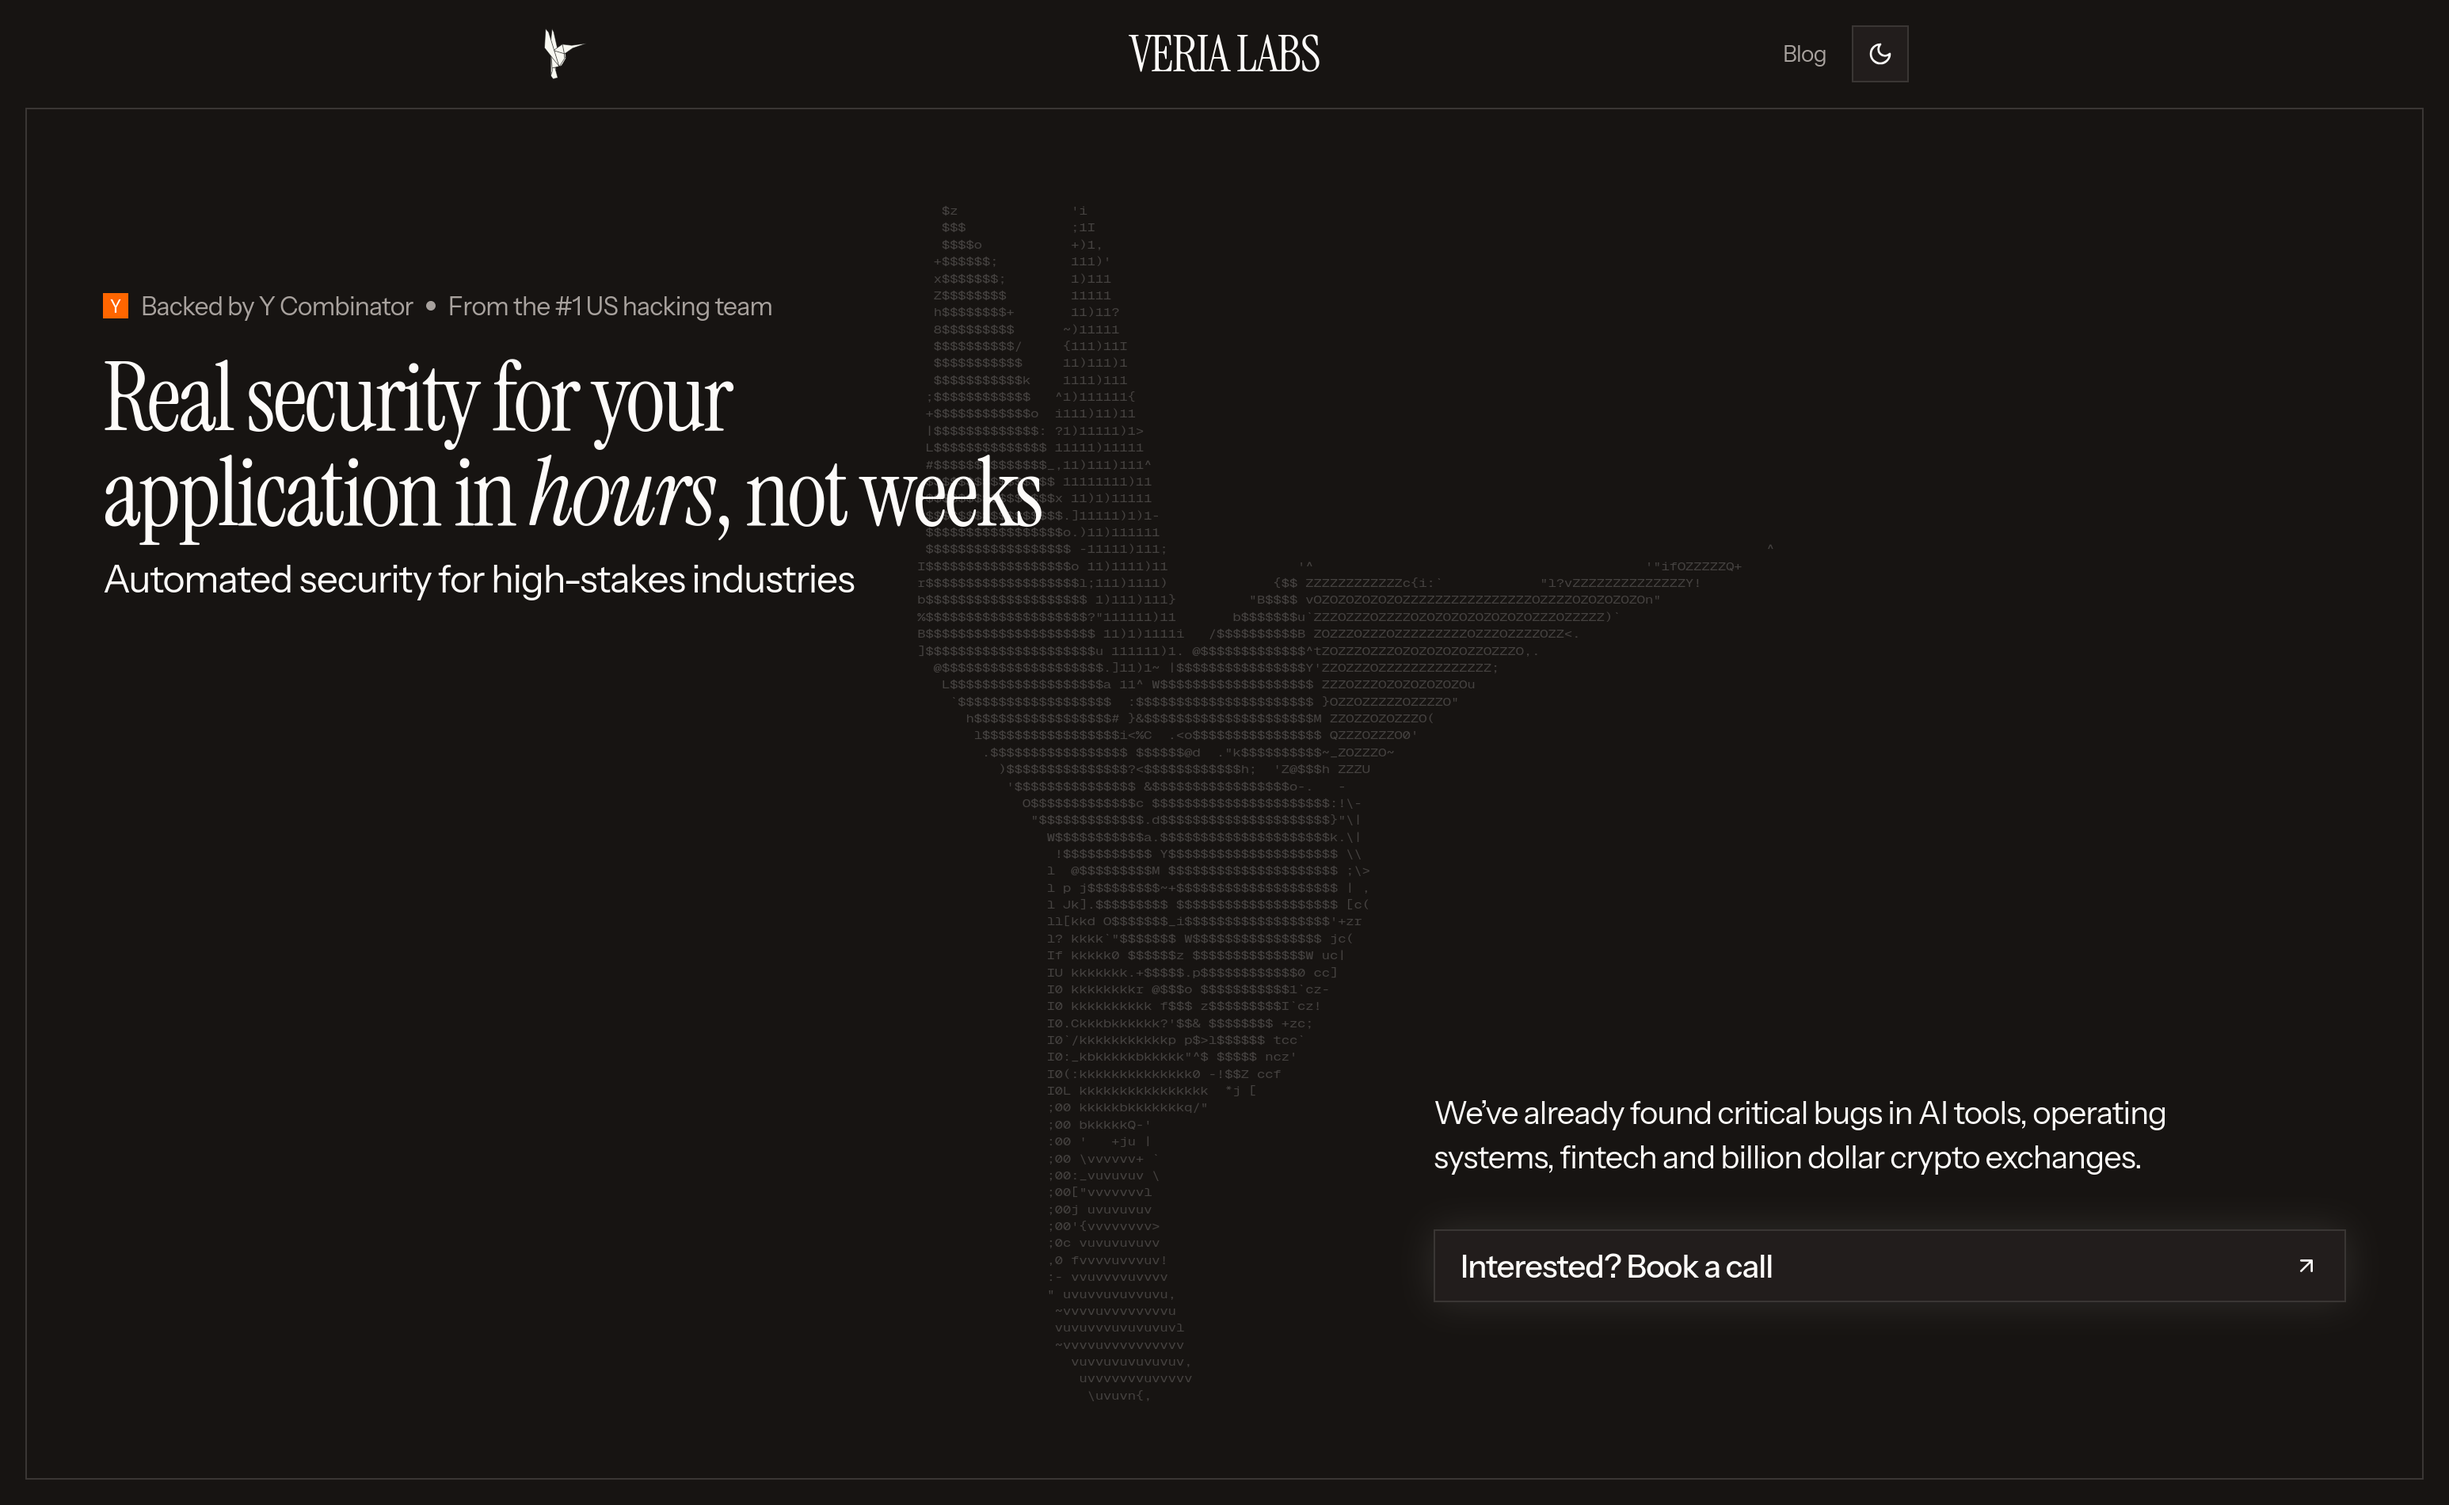
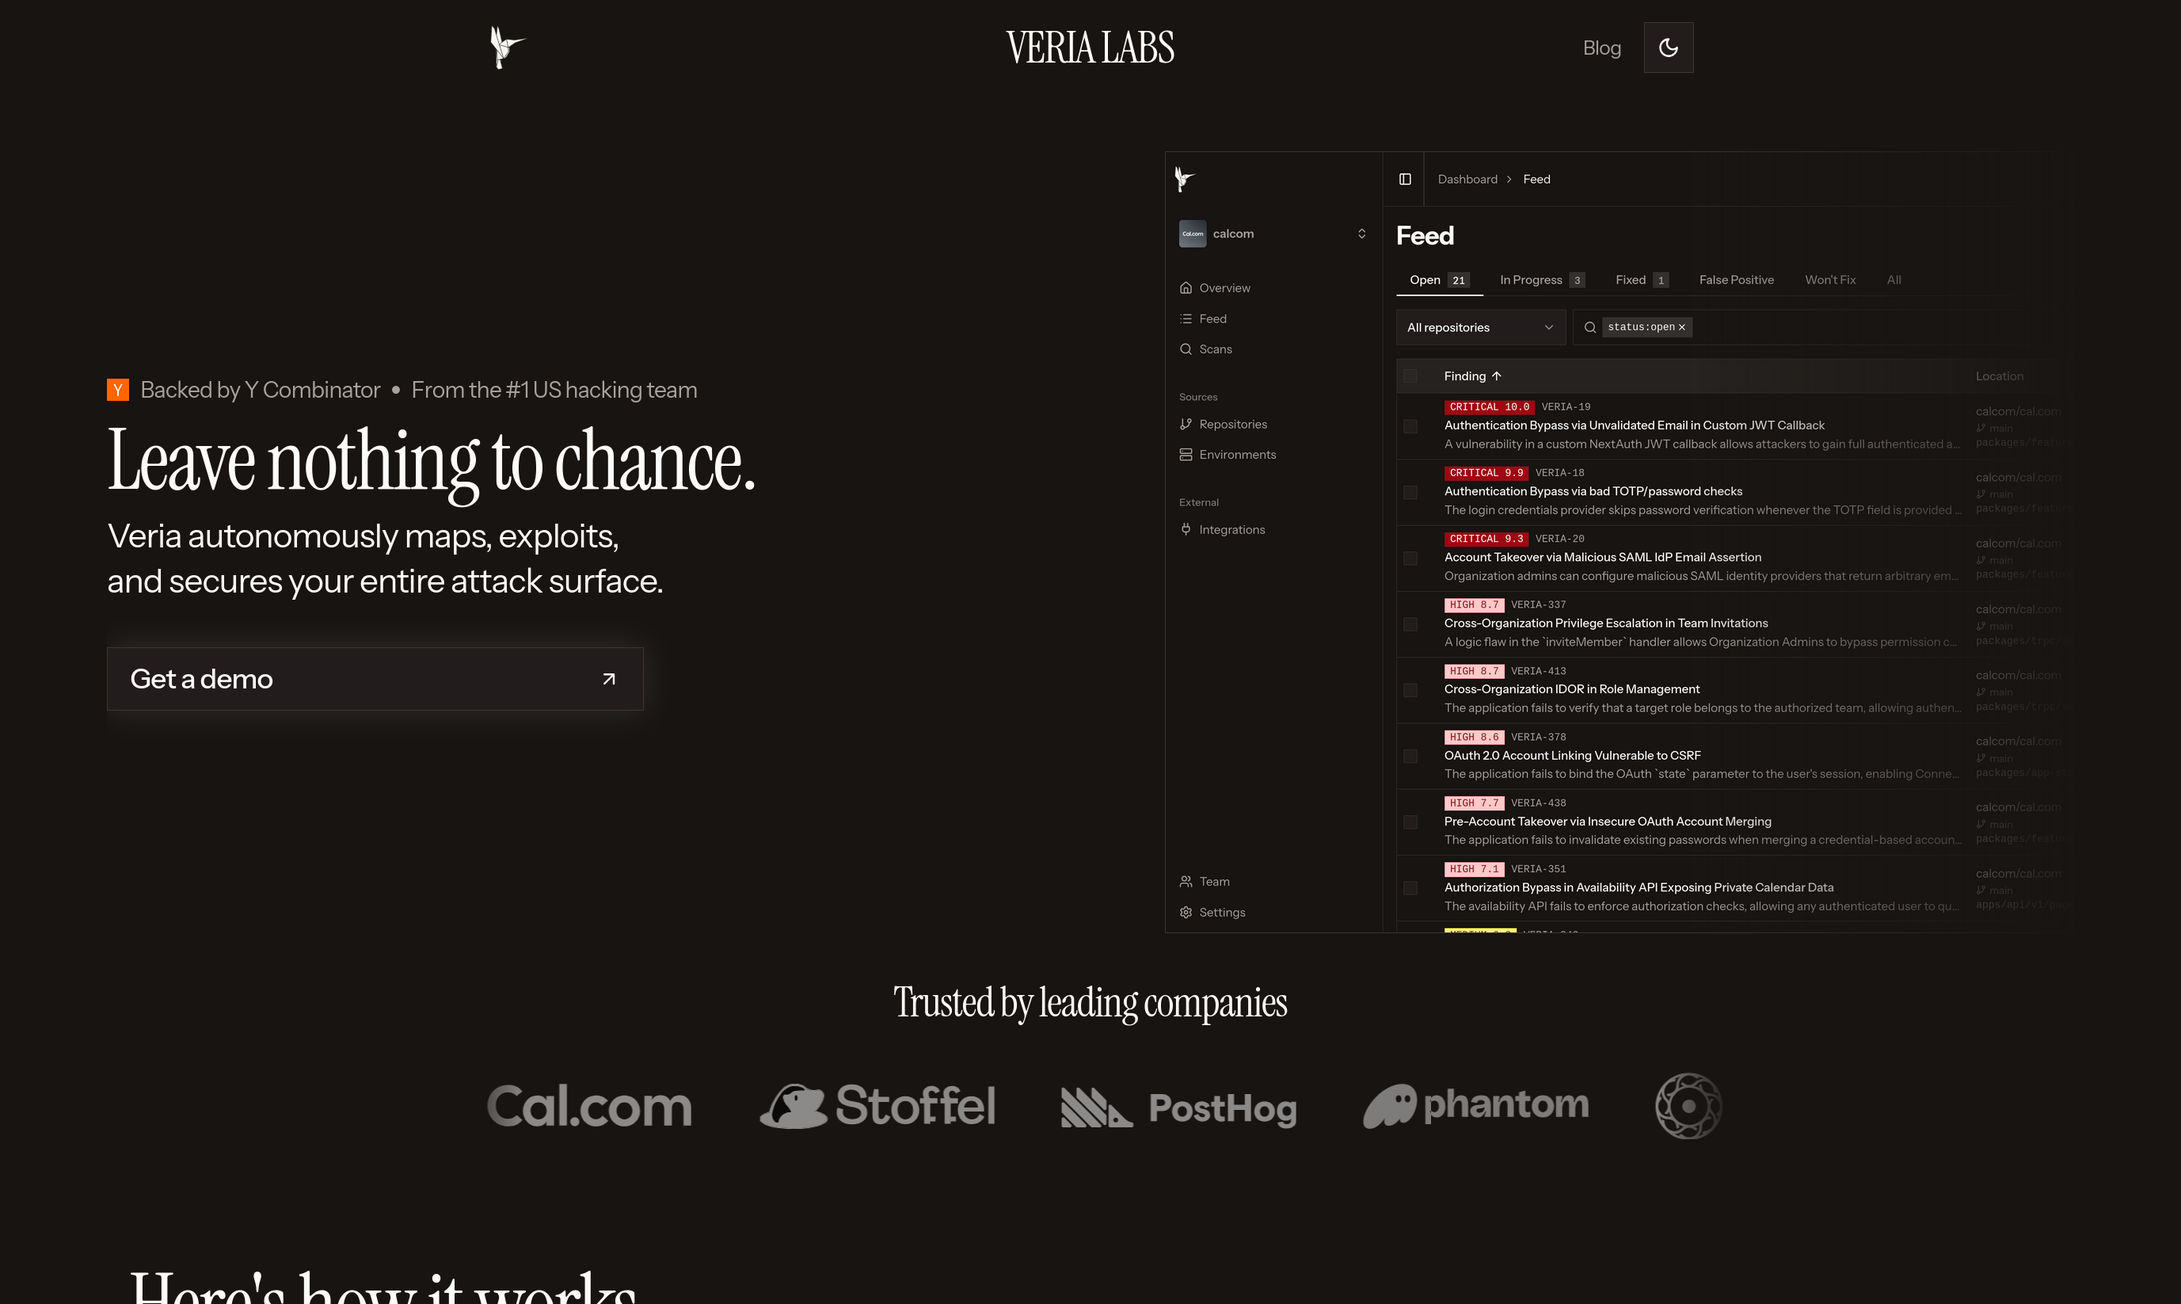
update bio

diff --git a/src/routes/+page.svelte b/src/routes/+page.svelte
@@ -141,17 +141,17 @@
 
   <div class="prose">
     <p>
-      Hey, I'm Aiden, designer and developer from California. I mess around with computers, making
-      websites, small programs, games, and whatever interests me at the time. I'm especially
-      interested in how we can use computers to <em>augment</em> our learning.
+      Hey, I'm Aiden, designer and developer from California. I mess around with computers; making
+      websites, small programs, games, and whatever else interests me at the time. I love to dig into
+      systems— technical or otherwise, and understand them deeply. In the process, I hope to bring a
+      little more beauty into the world.
     </p>
     <p>
-      This website is a catalogue of my different projects and experiments. I hope you find
+      This website is an (incomplete) catalogue of my different projects and experiments. I hope you find
       something interesting here.
     </p>
     <p>
-      Feel free to reach out, Discord is the best way to reach me. Details are in the footer. Pardon
-      the dust, this place is still in construction.
+      You might not believe it, but the flowers will bloom again.
     </p>
   </div>
 </section>
